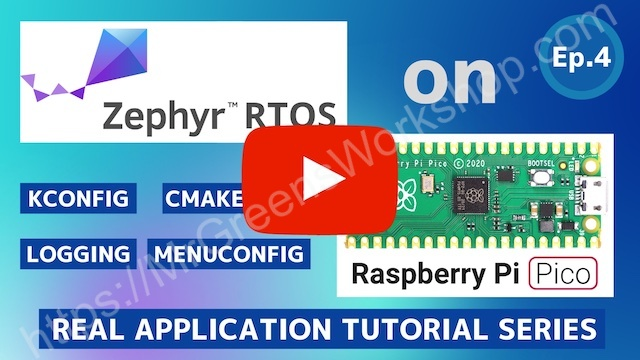
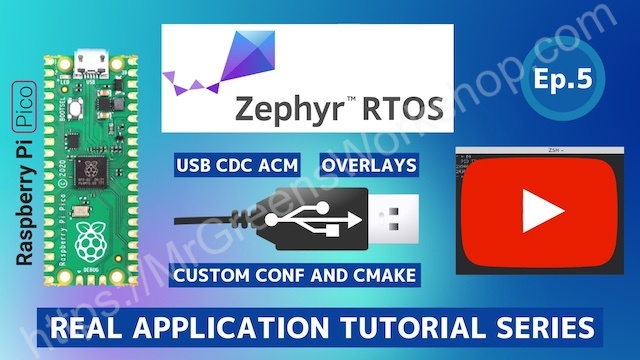
Setting USB CDC ACM as console output.

diff --git a/app/src/main.c b/app/src/main.c
@@ -16,6 +16,7 @@ void main(void) {
 	while (1) {
 		// For debugging purpose
 		printf("Hello World!\n");
+		LOG_DBG("Log test");
 		k_sleep(K_MSEC(1000));
 	}
 }

diff --git a/README.md b/README.md
@@ -11,10 +11,10 @@
 ---
 
 <div align="center">
-  <a href="https://youtu.be/BRXiIOI6aO8"><img src="docs/video_pic.jpg" max-height="250" alt="Zephyr RTOS Tutorials with Raspberry Pi Pico"></a>
+  <a href="https://youtu.be/t3nBOYfJrb8"><img src="docs/video_pic.jpg" max-height="250" alt="Zephyr RTOS Tutorials with Raspberry Pi Pico"></a>
 </div>
 
-Everything is covered in [the video above](https://youtu.be/BRXiIOI6aO8) and in this [blog post](https://www.mrgreensworkshop.com/posts/2023-03-24-raspberry-pi-pico-zephyr-rtos-picodro). Please watch all [Zephyr RTOS Tutorial videos](https://www.youtube.com/playlist?list=PLAymxPbYHgl-FZSggEx_lRJoPU2h4tT36) to make more sense of this one.
+Everything is covered in [the video above](https://youtu.be/t3nBOYfJrb8) and in this [blog post](https://www.mrgreensworkshop.com/posts/2023-03-24-raspberry-pi-pico-zephyr-rtos-picodro). Please watch all [Zephyr RTOS Tutorial videos](https://www.youtube.com/playlist?list=PLAymxPbYHgl-FZSggEx_lRJoPU2h4tT36) to make more sense of this one.
 
 #### Build commands (tag-specific)
 
@@ -32,6 +32,18 @@ Everything is covered in [the video above](https://youtu.be/BRXiIOI6aO8) and in 
 
     ```shell
     west build app -p -- -DOVERLAY_CONFIG="debug.conf"
+    ```
+
+  - Build the app with USB configuration
+
+    ```shell
+    west build app -p -- -DOVERLAY_CONFIG="usb.conf" -DDTC_OVERLAY_FILE="usb.overlay"
+    ```
+
+  - Build the app with USB & debug configuration (LOG output)
+
+    ```shell
+    west build app -p -- -DOVERLAY_CONFIG="usb.conf;debug.conf" -DDTC_OVERLAY_FILE="usb.overlay"
     ```
 
 ### You Can Support My Work
